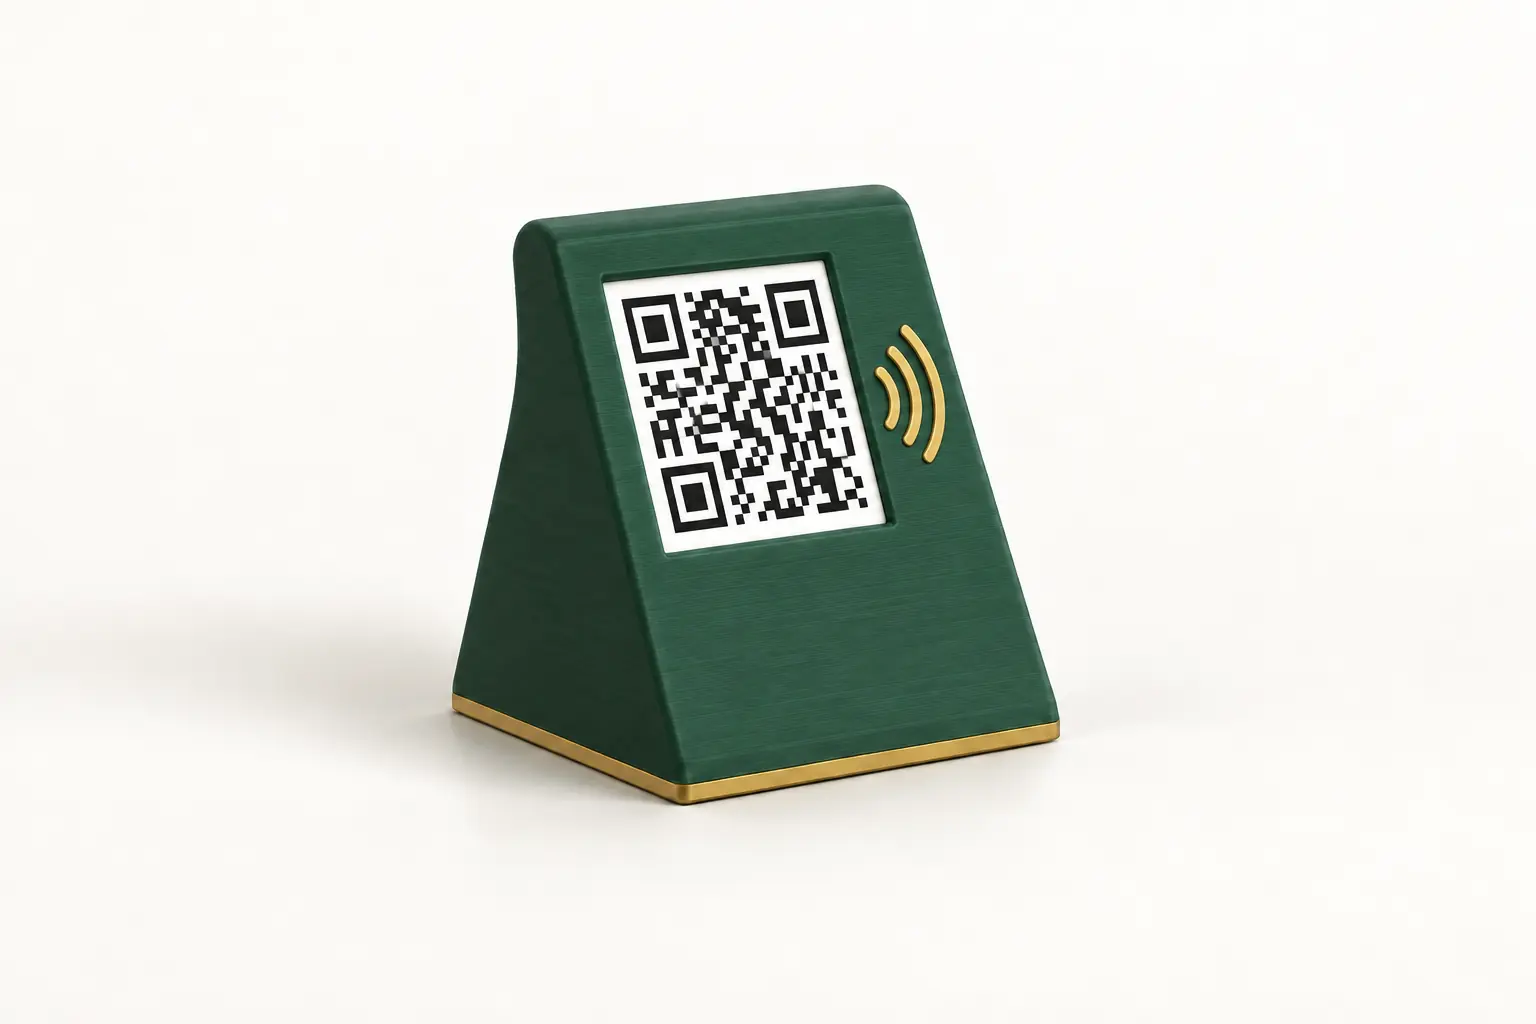
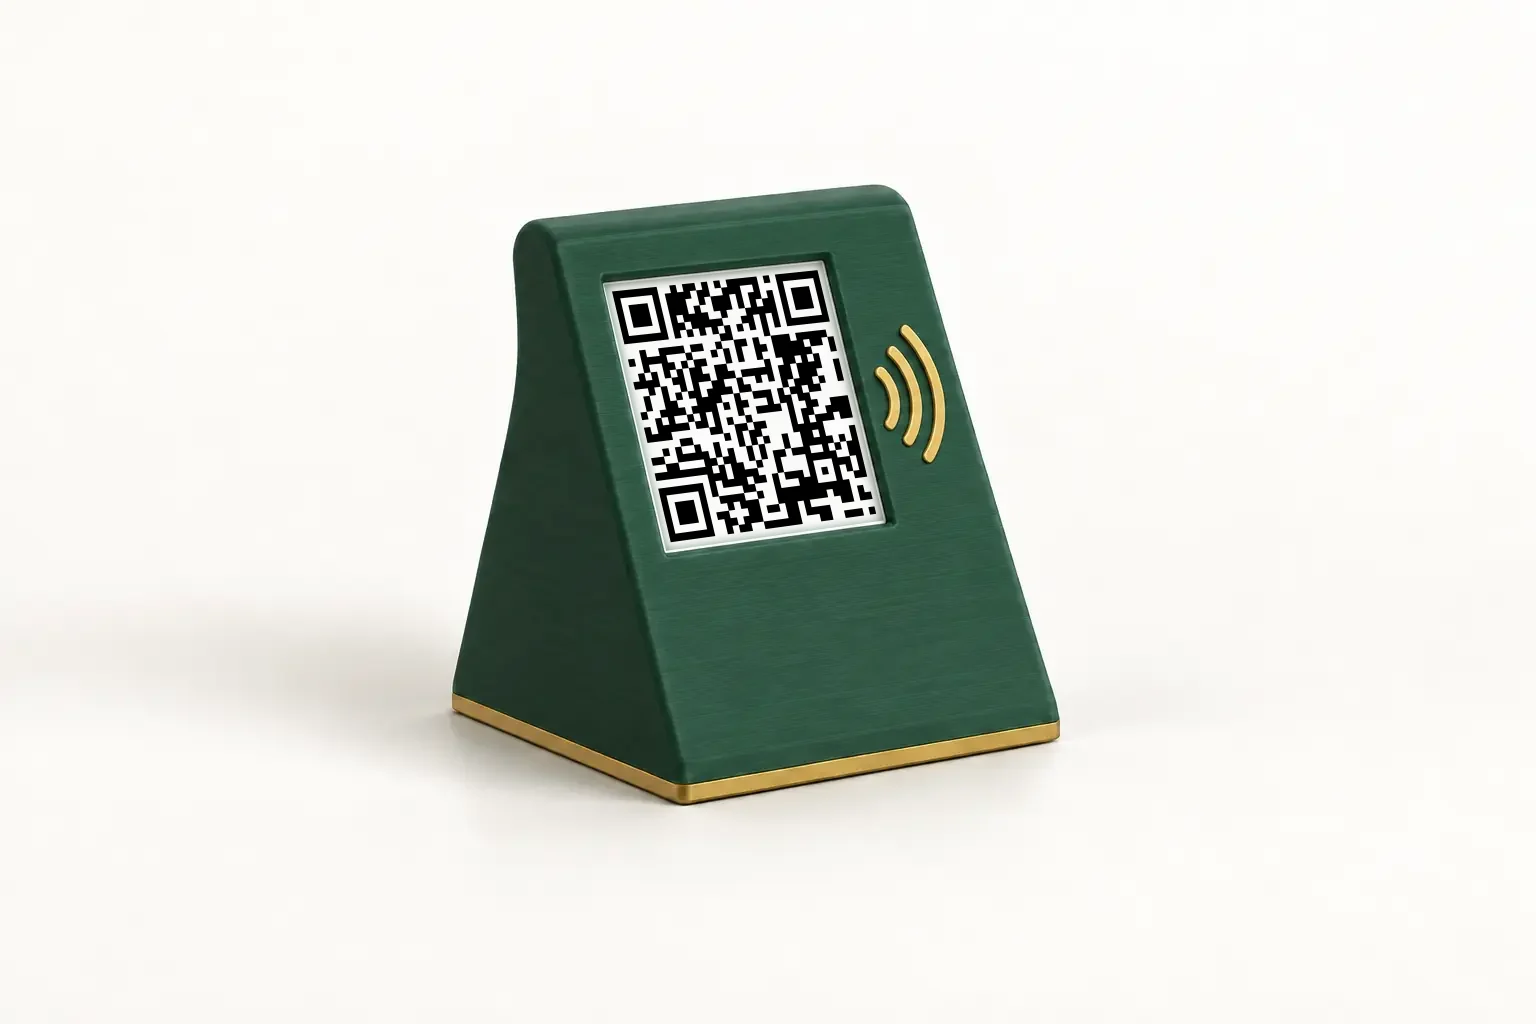
fix(renders): los QR de los stands de estudio escanean (D-051)
stand-qr-3d, stand-qr-3d-nfc y stand-resenas tenían un QR dibujado por la
IA que no decodificaba. Se pegó encima el QR real de
https://datafud.com/q/demo26 (qrcode, ECC H, como el kit de entrega) con
perspectiva sobre el panel blanco, negro puro y 1 módulo de margen. Mismo
nombre, 35–38 KB cada uno.

Decodifican los originales y las 9 variantes servidas por next/image (640,
750 y 1080 px). La herramienta de pegado vive fuera del repo.

Changed region(s): [[0.375, 0.25, 0.5938, 0.5312]]

diff --git a/docs/plans/imagenes-loop-state.md b/docs/plans/imagenes-loop-state.md
@@ -8,8 +8,8 @@
 
 ## Contador
 
-- Iteración actual: 4
-- Iteraciones consumidas: 4 / 12
+- Iteración actual: 5
+- Iteraciones consumidas: 5 / 12
 
 ## Capacidades del entorno
 
@@ -46,9 +46,9 @@
 |---|---|---|---|---|---|---|
 | R01 | Estado, línea base y archivos | hecho | 1 | `ebd5e77` | READY `dpl_GSgjRAdP…` | Abajo |
 | R02 | Hero | hecho | 1 | `d5013ba` + `03e47c1` | READY `dpl_3e79x2bj…` | Abajo |
-| R03 | Tarjeta NFC en `#hardware` | hecho | 1 | `be38789` | ver puente | Abajo |
-| R04 | Fondo del cierre (footer) | hecho | 1 | ver puente | ver puente | Abajo |
-| R05 | QR real en los renders de estudio | pendiente | 0 | | | |
+| R03 | Tarjeta NFC en `#hardware` | hecho | 1 | `be38789` | READY `dpl_BFrhfgus…` | Abajo |
+| R04 | Fondo del cierre (footer) | hecho | 1 | `e9c5744` | READY `dpl_Dqv9PoVm…` | Abajo |
+| R05 | QR real en los renders de estudio | hecho | 1 | ver puente | ver puente | Abajo |
 | R06 | Auditoría de imágenes públicas | pendiente | 0 | | | |
 | R07 | Verificación final, release 1.3.1 y puente | pendiente | 0 | | | |
 
@@ -201,3 +201,37 @@ los tres, no solo a `stand-qr-3d.webp`.
 - Peso de la home (375×812): recorrida entera **399,2 → 382,1 KB**; al abrir 244,2 → 243,6 KB.
 - `cta-bg.png` borrado; `grep -rn "cta-bg" src scripts` → sin resultados. Puertas A en verde
   (`qa:landing → OK · 21 avisos`).
+- Producción (`?rev=e9c5744`): la home pide `renders/tarjeta-nfc` y `renders/ambiente-piedra`;
+  `nfc.png`, `cta-bg.png` y `banner.png` = 0. `/c/ejemplo 200`, `/q/demo26 307 → /c/ejemplo`.
+
+### R05 · QR real en los renders de estudio (D-051)
+
+- Antes:
+  ```
+  stand-qr-3d.webp     | 1536x1024 | 27692 B | None
+  stand-qr-3d-nfc.webp | 1536x1024 | 26986 B | None
+  stand-resenas.webp   | 1536x1024 | 25128 B | None
+  ```
+- Cómo (`.qa/bin/pegar-qr.py`, OpenCV en el venv temporal; solo se commitean las imágenes):
+  1. El panel es el hueco no verde más grande dentro del cuerpo verde del stand → cuadrilátero.
+  2. Se borran los módulos de la IA (`inpaint`) y se suaviza la luz del papel.
+  3. Matriz de `qrcode` (ECC H, versión 4, 33×33, la misma librería y nivel que el kit) con 1
+     módulo de margen, deformada al panel (con 2,5 px de retiro del borde) y supermuestreada ×4.
+  4. Papel × QR: módulos negro puro, blanco con la luz original. WebP calidad 86.
+- Después:
+  ```
+  stand-qr-3d.webp     | 1536x1024 | 37896 B | 'https://datafud.com/q/demo26'
+  stand-qr-3d-nfc.webp | 1536x1024 | 36082 B | 'https://datafud.com/q/demo26'
+  stand-resenas.webp   | 1536x1024 | 34726 B | 'https://datafud.com/q/demo26'
+  ```
+  Variantes servidas por `next/image` (640, 750 y 1080 px de cada una): **9 de 9** decodifican
+  a `https://datafud.com/q/demo26`.
+- **Trampa encontrada.** La primera lectura de las variantes servidas dio `None` en 4 de 6: el
+  caché local de `next/image` (`.next/cache/images`) se indexa por URL, ancho y calidad, **no por
+  el contenido**, y un `next build` no lo limpia. Seguía sirviendo los renders viejos. Con
+  `rm -rf .next/cache/images` y el servidor reiniciado, 9 de 9. En producción se comprueba igual
+  (R05 en producción, abajo).
+- Zoom ×2 de los bordes del pegado y capturas de `#hardware` a 375 y 1440 miradas: sin halos ni
+  bordes visibles. A la derecha el margen queda algo menor que 1 módulo por el bisel del panel;
+  decodifica igual.
+- Puertas A en verde (`qa:landing → OK · 21 avisos`).

diff --git a/docs/vault-sync/2026-09-25-imagenes.md b/docs/vault-sync/2026-09-25-imagenes.md
@@ -78,7 +78,7 @@ stands").
 - Encuadre `50% 25%` y etiqueta arriba a la derecha para que la tarjeta se vea entera en móvil.
 - Las cuatro piezas de `#hardware` muestran "Render ilustrativo" a 375 y 1440.
 
-### R04 · Fondo del cierre · commit <ver bloque R05> · despliegue <ver bloque R05>
+### R04 · Fondo del cierre · commit e9c5744 · despliegue READY
 
 **Pendientes.md** — sin cambios.
 
@@ -96,3 +96,27 @@ WOODEN OAK" con texto en inglés) ya no existe.
   solo no alcanzaba a 1440).
 - Contraste AA medido a 375, 768, 1024 y 1440 sin tocar la opacidad de la capa.
 - La home recorrida entera baja de 399,2 a 382,1 KB.
+
+### R05 · QR real en los renders de estudio · commit <ver bloque R06> · despliegue <ver bloque R06>
+
+**Pendientes.md** — cerrar: "El render del stand QR 3D tiene un QR que no escanea". Sigue abierto
+para Steven: "Imprimir el stand de muestra con `/q/demo26` y escanearlo con un teléfono".
+
+**Decisiones.md** — **D-051 · QR de los renders siempre real.** Contexto: los tres renders de
+estudio publicados tenían un QR dibujado por la IA que no decodificaba; alguien que lo escaneara
+desde la web no llegaba a nada. Decisión: todo QR que aparezca en una imagen de la web decodifica
+a `https://datafud.com/q/demo26`; uno dibujado por la IA se reemplaza o no se publica.
+Consecuencias: cada imagen nueva con QR se verifica decodificándola (también la variante que sirve
+`next/image`) antes de publicarse.
+
+**Seguridad.md** — sin cambios.
+
+**Otras páginas** — `Guia-De-Desarrollo.md`: anotar que el caché local de `next/image`
+(`.next/cache/images`) se indexa por URL y no por contenido: al reemplazar una imagen **con el
+mismo nombre**, borrar esa carpeta antes de verificar en local.
+
+**log.md** — `## [2026-09-25] ingest | Loop imágenes: QR reales en los renders de estudio`
+- Los tres stands de estudio tenían un QR inventado por la IA que no escaneaba.
+- Se les pegó el QR real (ECC H, el del kit) con perspectiva sobre el panel; 35–38 KB cada uno.
+- Decodifican el original y las 9 variantes servidas por `next/image`.
+- El caché local de `next/image` sirvió las viejas hasta borrarlo: se indexa por URL.

diff --git a/docs/CHANGELOG.md b/docs/CHANGELOG.md
@@ -25,6 +25,14 @@ Todas las versiones notables del proyecto. Formato basado en
   contra el píxel más claro detrás de cada texto: todo AA a 375, 768, 1024 y 1440 px.
   `cta-bg.png` se borró del repo.
 
+### Fixed — Loop "imágenes" (2026-09-25)
+- **Los QR de los renders de estudio escanean (D-051).** `stand-qr-3d.webp`,
+  `stand-qr-3d-nfc.webp` y `stand-resenas.webp` tenían un QR dibujado por la IA, con módulos
+  borrosos, que no decodificaba. Se les pegó el QR real de `https://datafud.com/q/demo26` (ECC H,
+  el mismo que genera el kit de entrega) con perspectiva sobre el panel blanco, negro puro y 1
+  módulo de margen. Mismo nombre; pesan 35–38 KB. Decodifican el original y las variantes de
+  640, 750 y 1080 px que sirve `next/image`.
+
 ## [1.3.0] — 2026-09-25 · Entrega de la Carta lista
 
 Informe: `docs/plans/entrega-loop-report.md`.
